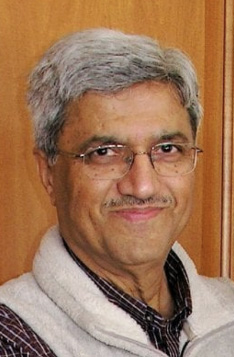
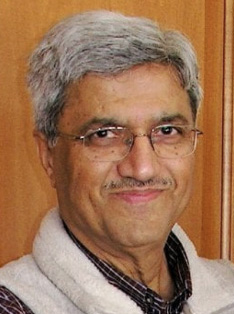
updated conference keynote speaker page

diff --git a/django/general/templates/general/conference-keynotespeakers.html b/django/general/templates/general/conference-keynotespeakers.html
@@ -29,6 +29,11 @@
             Amba Kulkarni is Professor and Head of the Department of Sanskrit Studies, University of Hyderabad, where she has worked since 2006, building on an extensive earlier career in NLP, programming, and mathematics. Professor Kulkarni’s work has focused on machine translation and the development of computational tools for the analysis of Sanskrit, crucially using Sanskrit grammatical concepts and theories. Her recent work includes computational analyses of ancient Indian theories of logic (<em>nyāya</em>) and metrics (<em>chandas</em>). Professor Kulkarni’s extensive and innovative work has made her the leading figure in the field of NLP applied to Sanskrit.
         </p>
 
+        <h4>Malhar Kulkarni</h4>
+        <img src="{% static 'images/conference/malhar.jpg' %}" class="conference-keynotespeakers-photo" alt="Malhar Kulkarni">
+        <p>
+            Malhar Kulkarni is Professor in the Department of Humanities and Social Sciences at the Indian Institute of Technology, Bombay. Professor Kulkarni studied Pāṇinian grammar according to both the traditional and modern paradigms in Mumbai and Pune, obtaining his PhD from the University of Pune in 2000. Professor Kulkarni has taught, written and published widely in English, Sanskrit and Marathi, on topics ranging from  computational linguistics, including but also beyond its application to Sanskrit, the study of <em>vyākaraṇa</em> and Indian linguistic though more broadly, and Indian and Western philosophy. He has been a leading figure in the development of <em>Saṃskṛtaśabdabandhaḥ</em>, Sanskrit Wordnet, based at IIT Bombay. 
+        </p>
     </div>
 
 {% endblock %}
